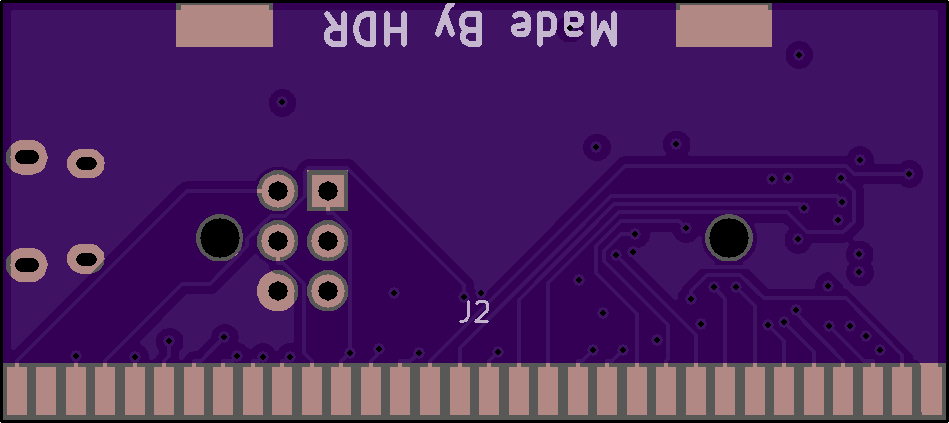
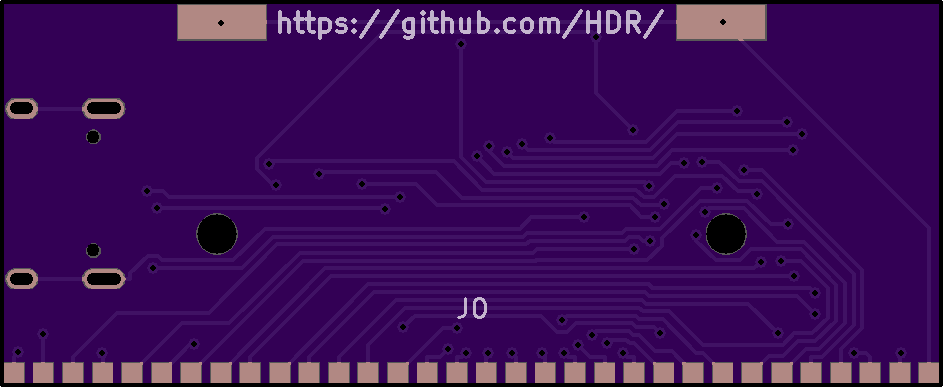
1.5
- Replaced the micro usb port with a USB Type C port

- Removed the ISP header in favor of flashing using the cart bus
https://oshpark.com/shared_projects/OUjmrtRg

- Replaced the crystal with one that is smaller and does not require 2
capacitors

- Removed redundant capacitors

- Removed the leds for TXD and RXD and their resistors

- Reduced board width by 0.3mm

- Reduced board height by 1.8mm

- Reduced board layers from 4 to 2, this cuts the price in half

- Reduced the size of the cart reader footprint, this now requires some
trimming of the pins to fit

diff --git a/readme.md b/readme.md
@@ -1,7 +1,8 @@
 # The worlds smallest Game Boy cart flasher!
-A clone of [J.Rodrigo's flasher](https://www.tindie.com/products/JRodrigo/cart-flasher-for-gameboy/)
 
-[Purchase on OSHPARK](https://oshpark.com/shared_projects/0C5yyQZD)
+[Purchase on OSHPARK](https://oshpark.com/shared_projects/PaC5MU5U)
+
+[Purchase the tool for flashing the boards on OSHPARK](https://oshpark.com/shared_projects/OUjmrtRg)
 
 **Flashing the bootloader**
 
@@ -29,32 +30,26 @@ Flashing the firmware can be done over USB using [tinysafeboot](https://github.c
 
 - Open command line and flash the firmware by writing "tsbloader_adv -port=com# -fop=wv -ffile=GBFlasher-Firmware.hex" (Replace # with whatever com port number the flasher shows up as in Device Manager)
 
-**BOM**
+**BOM** (Most of these can be found on LCSC)
 
 | Reference        | Part Number           | Description  |
 | ------------- |:-------------:| -----:|
-| C1 | 0603ZD104KAT2A | 0.1uF |
-| C2 | 0603ZD104KAT2A | 0.1uF |
-| C3 | NMC0603X5R106M10 | 10uF |
-| C4 | 0603ZD104KAT2A | 0.1uF |
-| C5 | C0603C220J5RACTU | 22pF |
-| C6 | C0603C220J5RACTU | 22pF |
-| Atmega8515 | Atmega8515L-8AU ||
-| FT232RL | FT232RL ||
-| J1 | 10103594-0001LF | Micro USB Receptacle |
-| J2 | Buy from Aliexpress | Cartridge Reader |
-| LED1 | LSM0603453V | Green 0603 LED |
-| LED2 | LSM0603463V | Blue 0603 LED |
-| LED3 | LSM0603463V | Blue 0603 LED |
-| LED4 | LSM0603412V | Red 0603 LED |
-| PTC1 | MF-FSMF050X-2 | 500mA PTC Fuse |
-| R1 | ERJ-PB3D1001V | 1K |
-| R2 | ERJ-PB3D1001V | 1K |
-| R3 | ERJ-PB3D1001V | 1K |
-| R4 | ERJ-PB3D1001V | 1K |
-| R5 | NTR06B1002DTRF | 10K |
-| XTAL1 | FQ1045A-6.000 | 6MHz Crystal |
-
+| C1 | 0603F104M500NT | 100nF |
+| C2 | CL10A106MQ8NNND | 10uF |
+| C3 | 0603F104M500NT | 100nF |
+| Atmega8515 | Atmega8515L-8AU | Atmega8515L-8AU is not compatible|
+| FT232RL | FT232RL | Buy from Aliexpress |
+| J0 | Buy from Aliexpress | Cartridge Reader |
+| J1 | Type-C-31-M-12 | USB Type C Receptacle |
+| PWR | Everlight Elec 19-217/GHC-YR1S2/3T | Green 0603 LED |
+| R/W | Everlight Elec 19-217/R6C-AL1M2VY/3T | Red 0603 LED |
+| F1 | MF-FSMF050X-2 | 500mA PTC Fuse |
+| R1 | CR0603JA0102G | 1K |
+| R2 | CR0603JA0102G | 1K |
+| R3 | 0603WAJ0103T5E | 10K |
+| R4 | 0603WAJ0512T5E | 5.1K (Only required for USB C to USB C cables) |
+| R5 | 0603WAJ0512T5E | 5.1K (Only required for USB C to USB C cables) |
+| X1 | S3D6.000000B20F30T | 6MHz Crystal |
 ## Images
 
 ![Front](front.png)
@@ -90,4 +85,24 @@ Flashing the firmware can be done over USB using [tinysafeboot](https://github.c
 
 **1.4 Changelog:**
 
-Fixed incorrect crystal wiring
+- Fixed incorrect crystal wiring
+
+**1.5 Changelog:**
+
+- Replaced the micro usb port with a USB Type C port
+
+- Removed the ISP header in favor of flashing using the cart bus https://oshpark.com/shared_projects/OUjmrtRg
+
+- Replaced the crystal with one that is smaller and does not require 2 capacitors
+
+- Removed redundant capacitors
+
+- Removed the leds for TXD and RXD and their resistors
+
+- Reduced board width by 0.3mm
+
+- Reduced board height by 1.8mm
+
+- Reduced board layers from 4 to 2, this cuts the price in half
+
+- Reduced the size of the cart reader footprint, this now requires some trimming of the pins to fit
